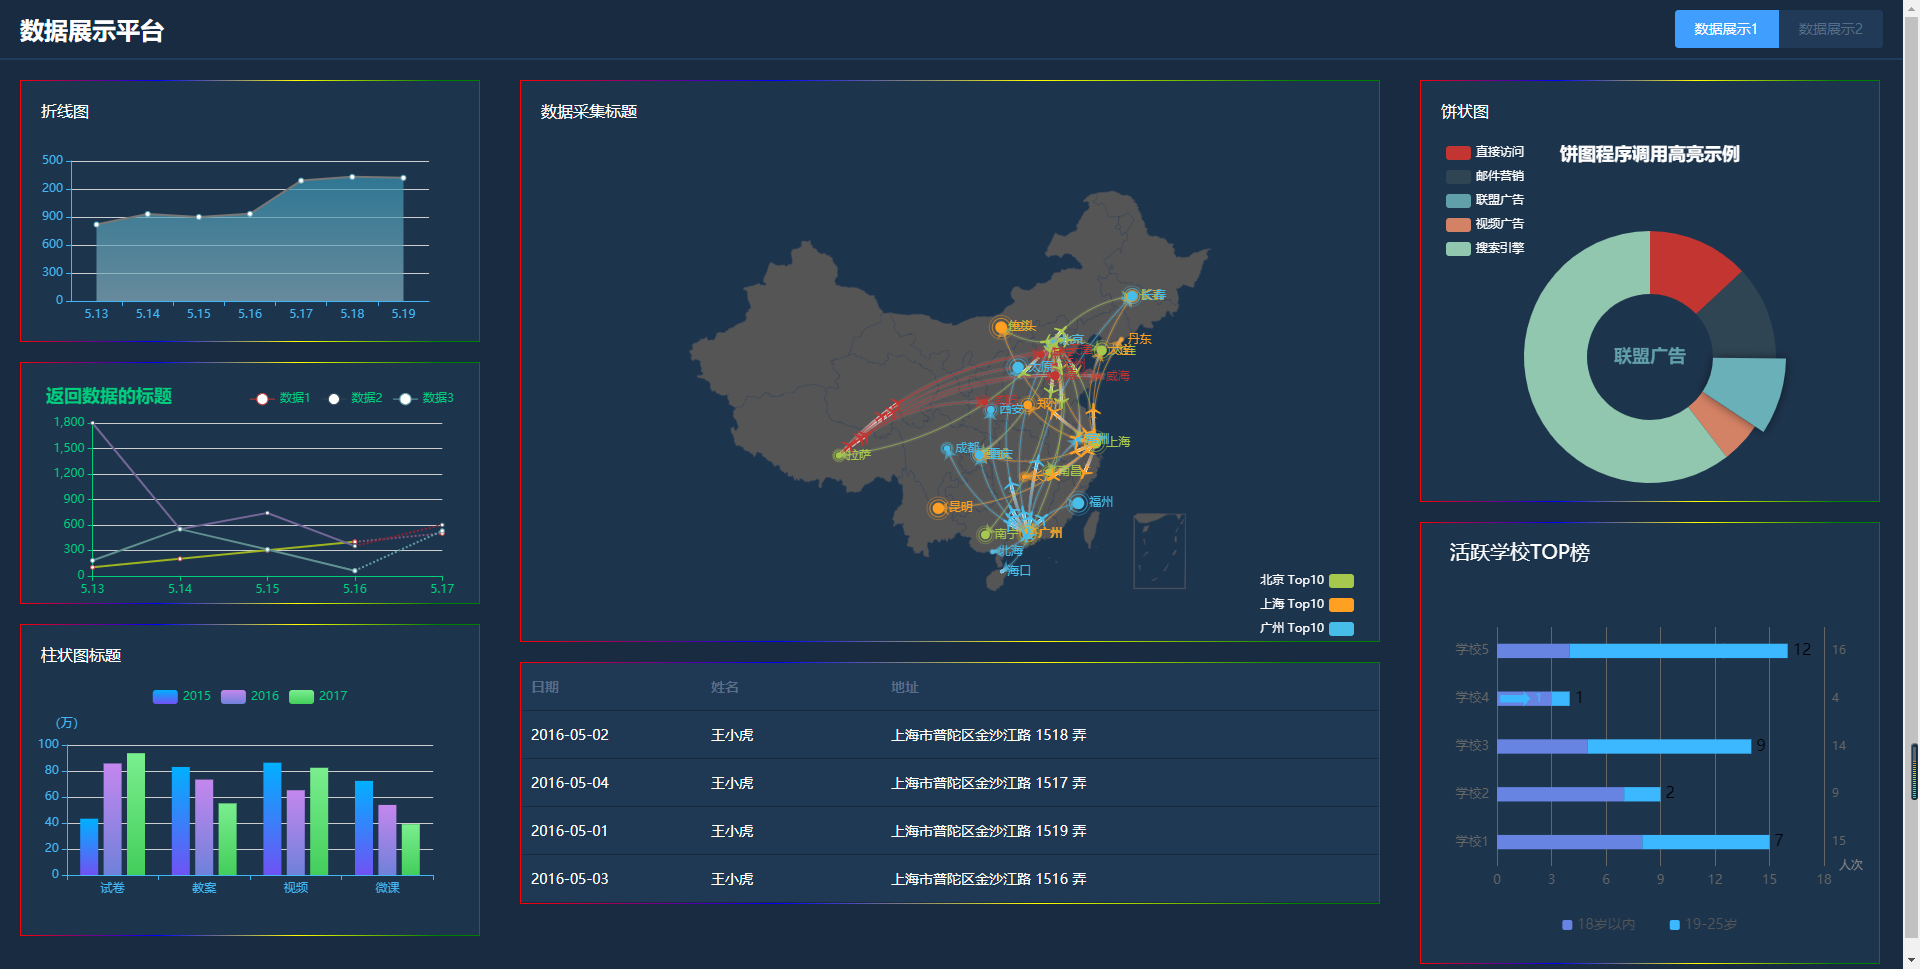
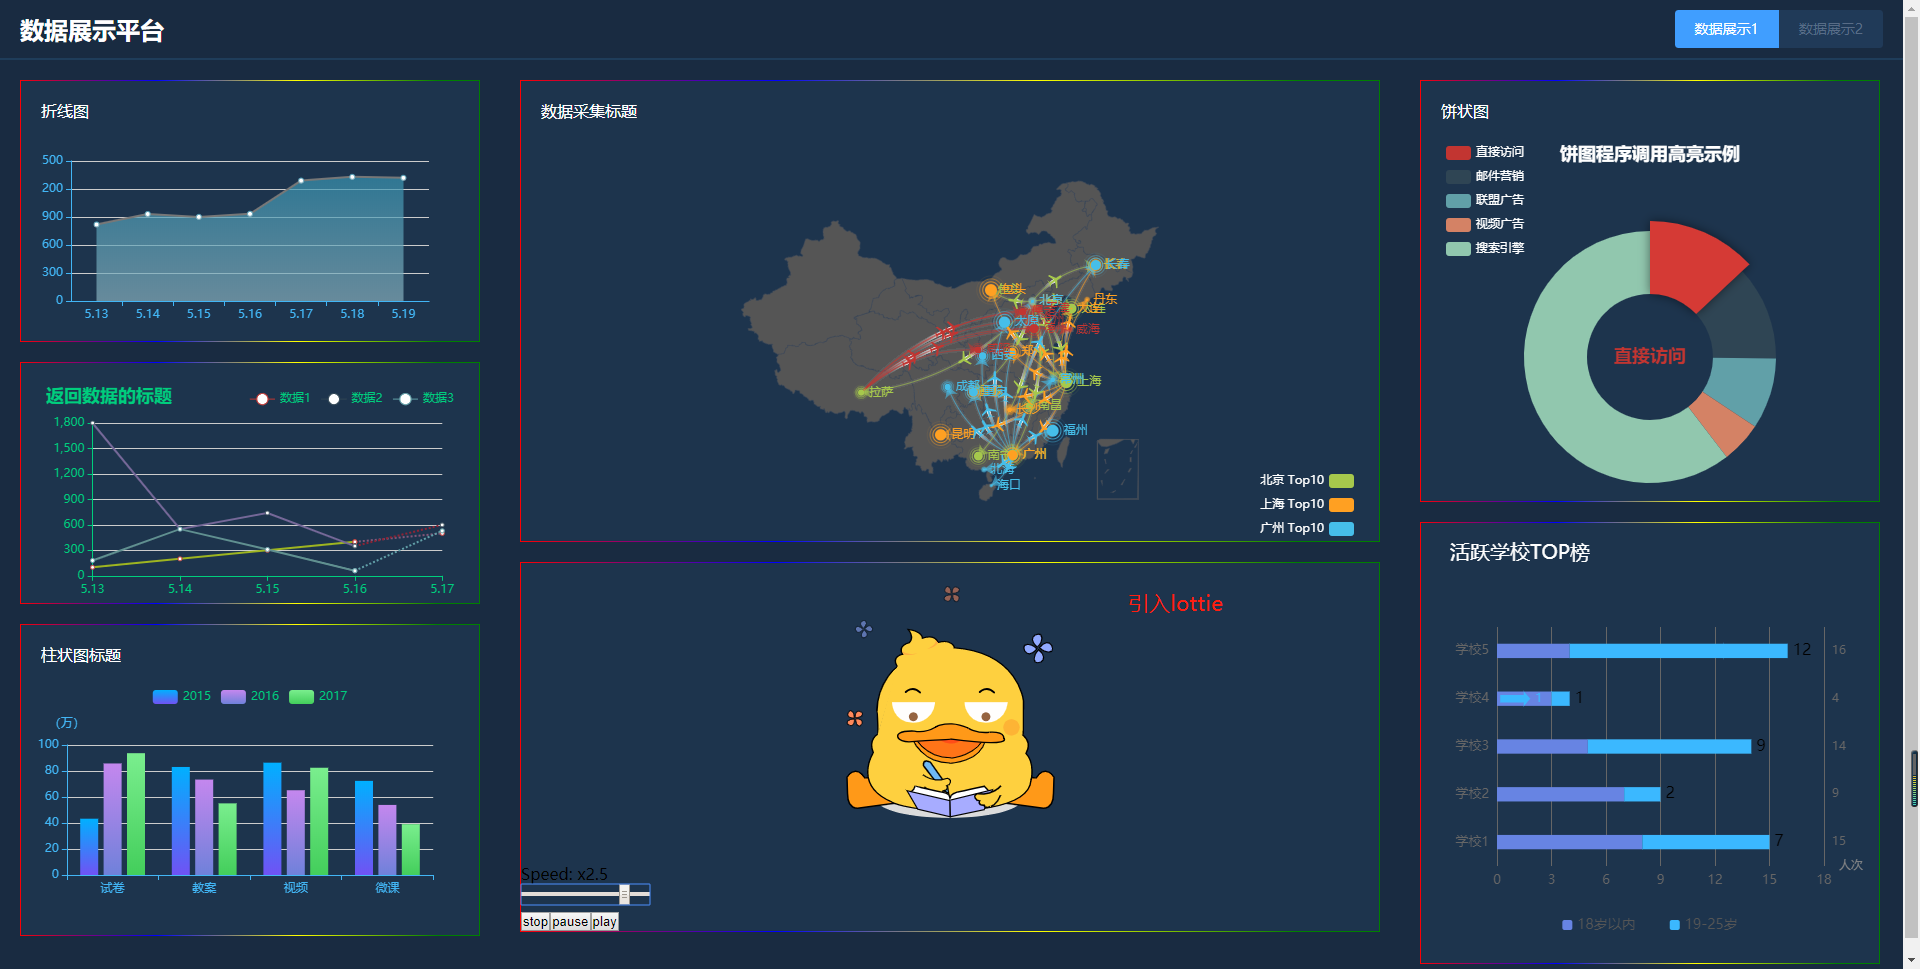
readme&&img

diff --git a/README.md b/README.md
@@ -3,7 +3,7 @@
 ## 项目框架
 ```
 vue + vuex + axios + echarts + elementUi
-包括折线图最后一段设置为虚线、饼状图模块依次高亮显示循环、循环滚动table、接入百度地图sdk
+包括折线图最后一段设置为虚线、饼状图模块依次高亮显示循环、循环滚动table、接入百度地图sdk、引入了Lottie渲染动画
 ```
 
 ## 截图
